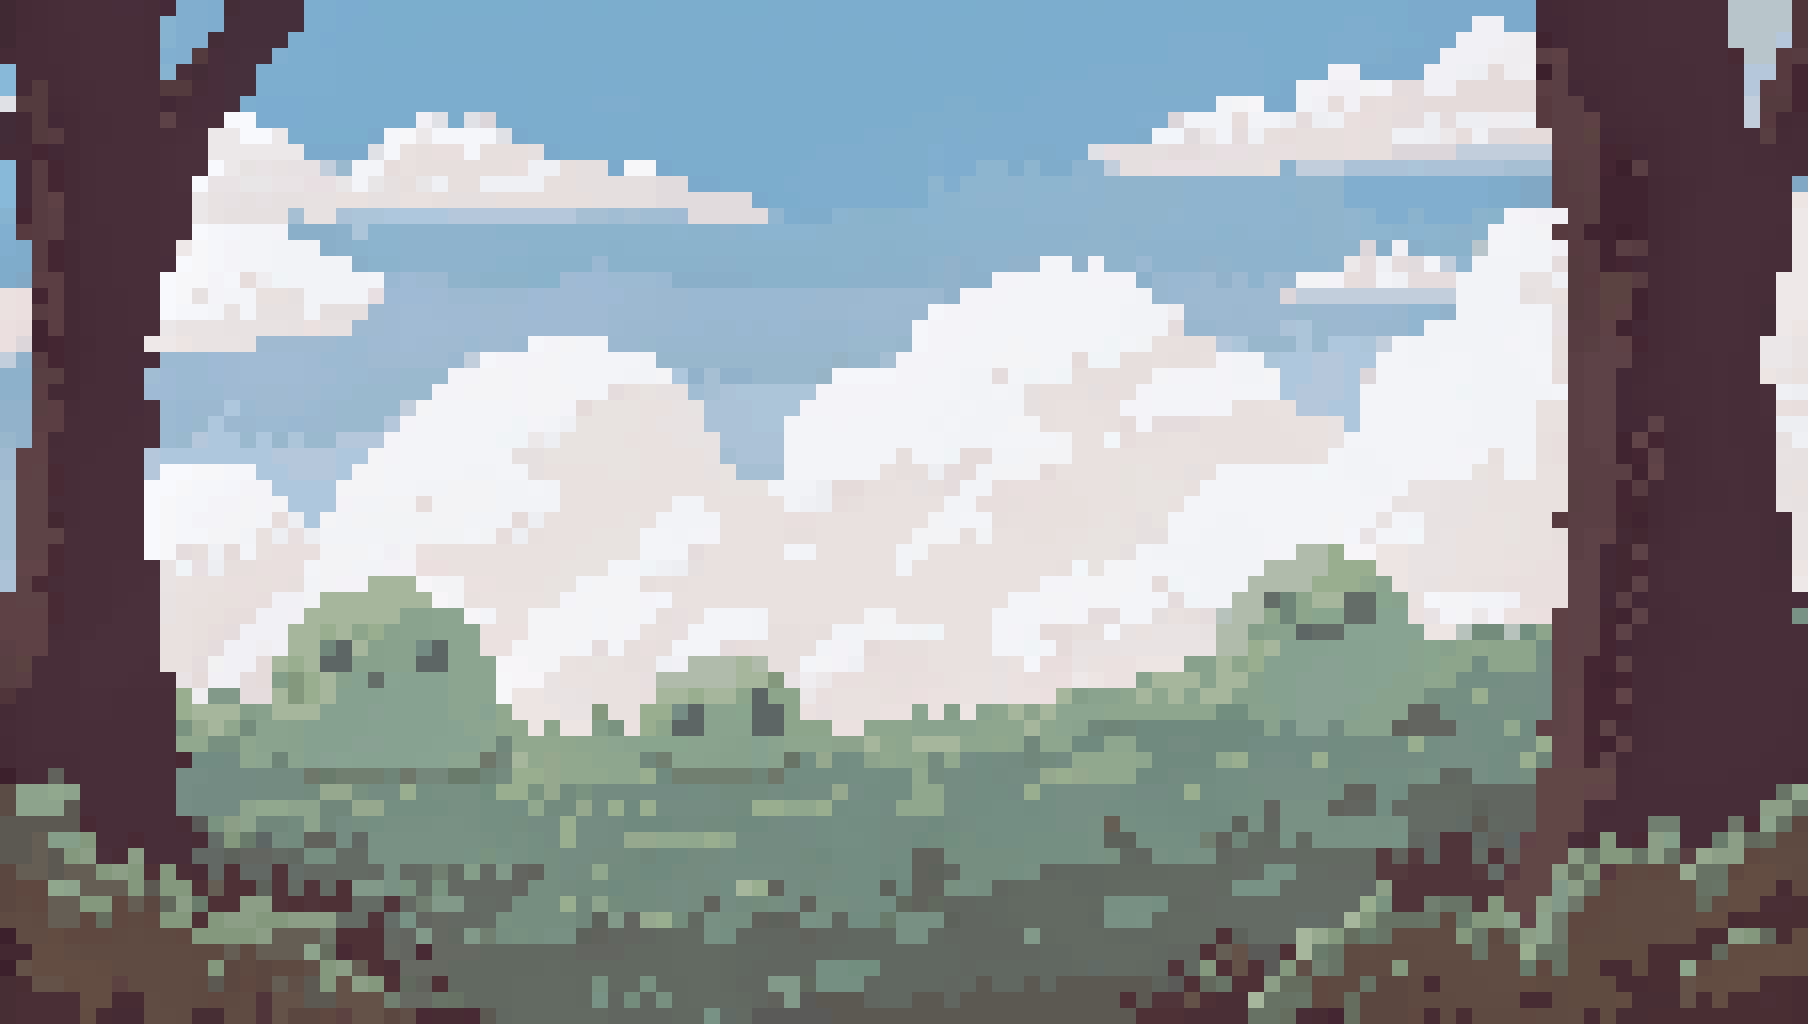
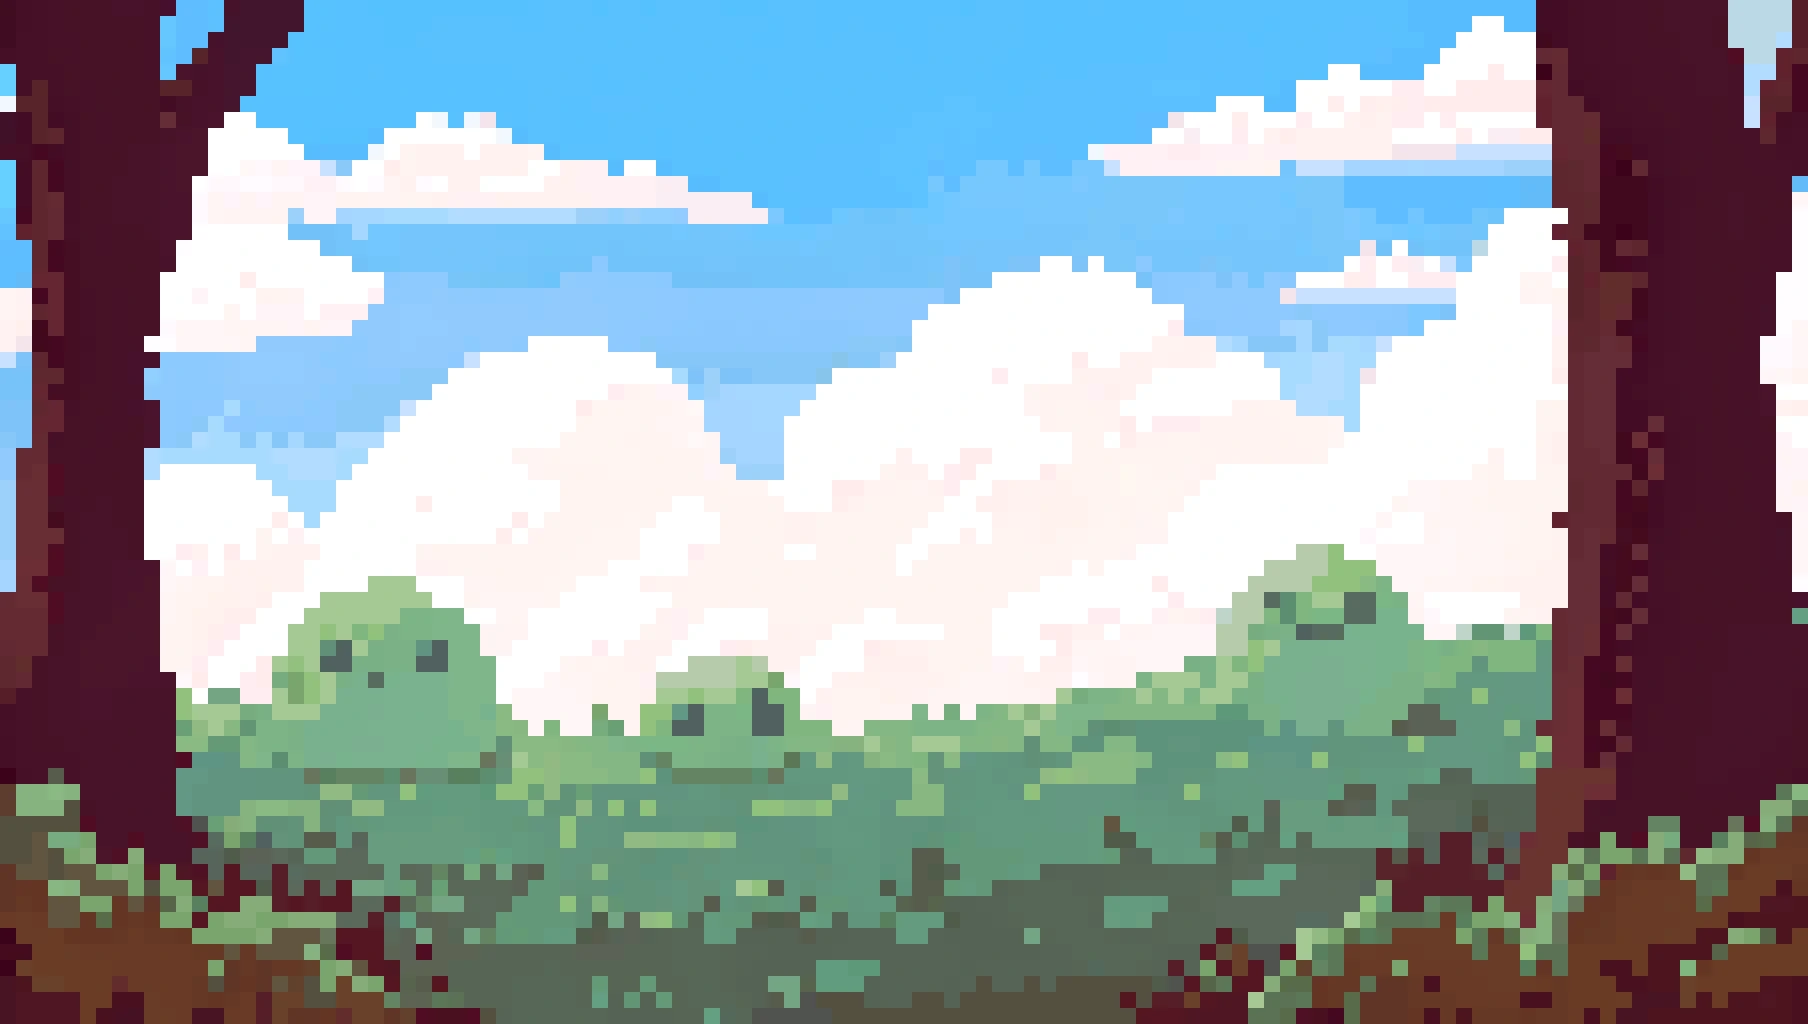
feat(art): pop the crew scene colours (Fares - it looked sad/muted)
Boosted village.webp saturation 1.75x + contrast/brightness so the sky and greens
are vivid instead of hazy - pops like the agent creature now. Kept the art Fares
likes, just lit it up. Build re-stamped.

diff --git a/index.html b/index.html
@@ -333,7 +333,7 @@ input{font-family:inherit;}
    see a stale build right after a deploy. On load we fetch the page fresh (no-store,
    bypassing the cache) and compare the build id; if ours is stale, reload once via a
    cache-busting param so the latest UI always wins. */
-window.CREW_BUILD="20260615-014411";
+window.CREW_BUILD="20260615-022538";
 (function(){
   try{
     if(/[?&]fresh=/.test(location.search))return;
